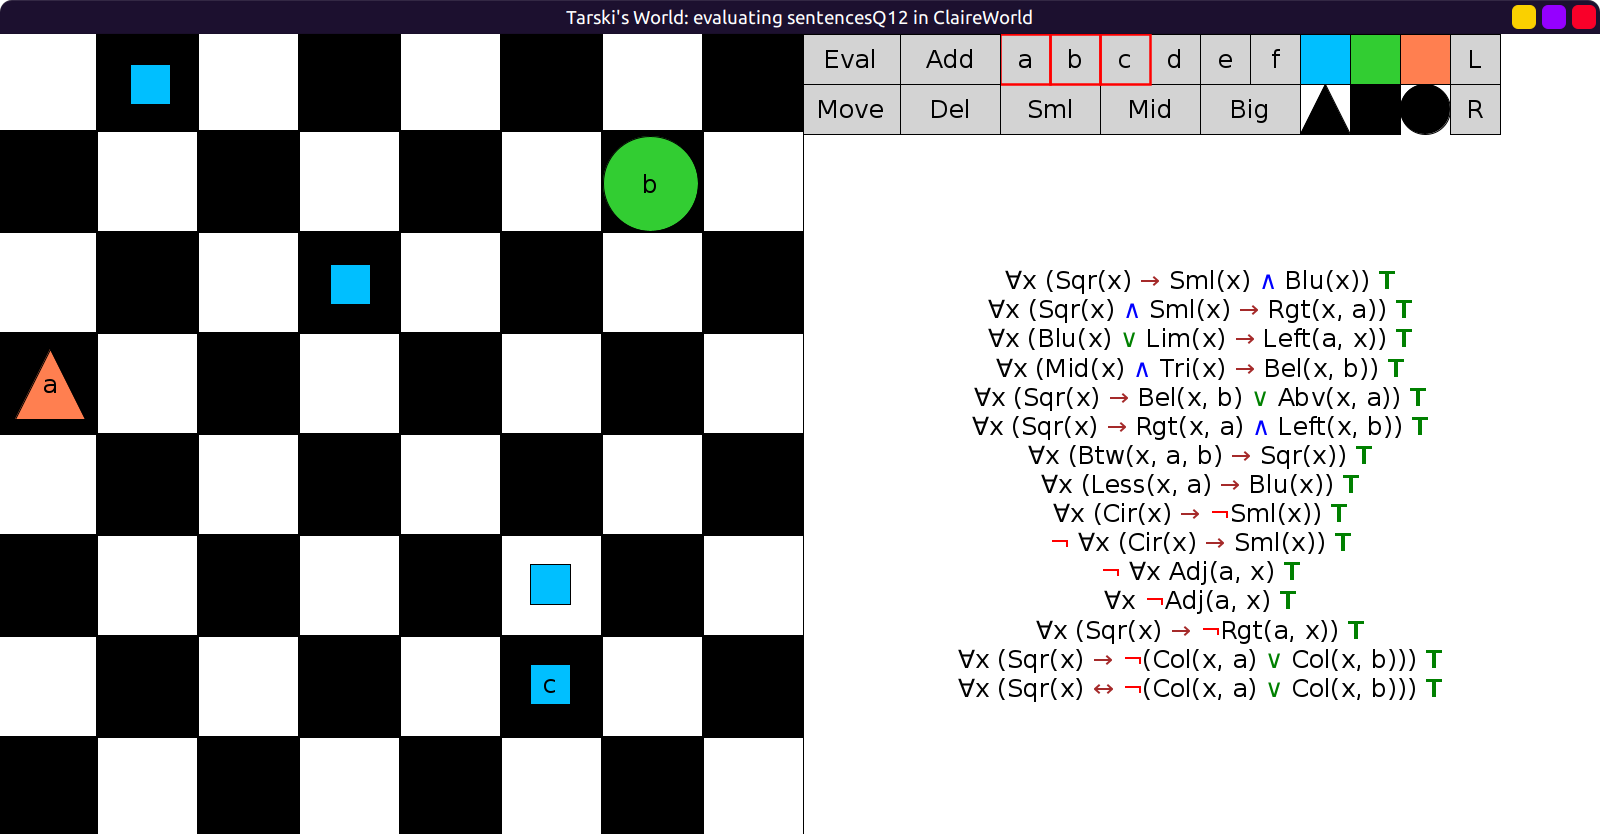
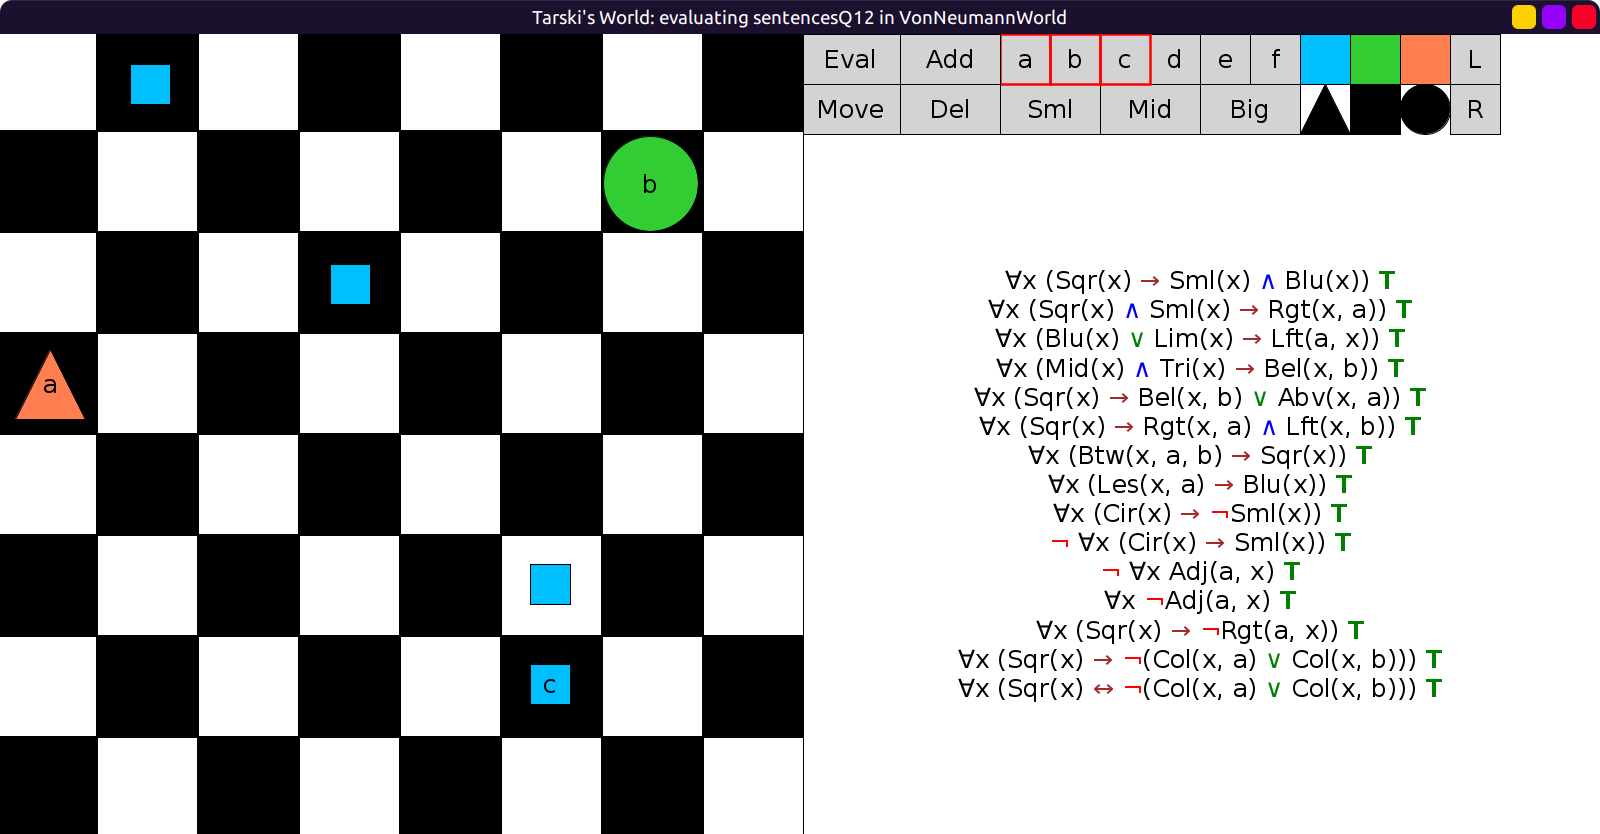
rework ex q12

diff --git a/examples/quantifier-logic/12/README.md b/examples/quantifier-logic/12/README.md
@@ -10,13 +10,13 @@ This time each translation will contain exactly one ∀ and no ∃.
 (You can use ¬ as you like.)
 
 1. All squares are small and blue.
-2. Each small square is to the right of a.
-3. a is to the left of every blue block and every lime block.
-4. Every medium triangle is below b.
-5. Each square is either below `b` or above a.
-6. Every square is to the right of a and to the left of b.
-7. Everything between a and `b` is a square.
-8. Everything smaller than a is blue.
+2. Each small square is to the right of `a`.
+3. `a` is to the left of every blue block and every lime block.
+4. Every medium triangle is below `b`.
+5. Each square is either below `b` or above `a`.
+6. Every square is to the right of `a` and to the left of b.
+7. Everything between `a` and `b` is a square.
+8. Everything smaller than `a` is blue.
 9. No circle is small.
     (Note: it would be more natural to express it as: "¬∃x ..."
     but here you need to express it with exactly one ∀.)
@@ -26,27 +26,28 @@ This time each translation will contain exactly one ∀ and no ∃.
     One starts with ∀, the other with ¬.
     The first has the same meaning as 9: "all circles are mid or big".
     So, use the second, the one that means: "not all circles are small".)
-11. a does not adjoin everything.
+11. `a` does not adjoin everything.
     (Note: This sentence is ambiguous.
     We want you to interpret it as a denial of the claim that a adjoins everything.)
-12. a does not adjoin anything.
+12. `a` does not adjoin anything.
     (Note: These last two sentences mean different things,
     though they can both be translated using ∀, ¬, and Adj.)
-13. a is not to the right of any square.
-14. If something is a square, then it is not in the same column as either a or b.
+13. `a` is not to the right of any square.
+14. If something is a square, then it is not in the same column as either `a` or `b`.
     (Warning: While this sentence contains the noun
     phrase "something," it is actually making a universal claim, and so
     should be translated with ∀. You might first try to paraphrase it
     using the English phrase "every square.")
-15. Something is a square if and only if it is not in the same column as either a or b.
+15. Something is a square if and only if
+    it is not in the same column as either `a` or `b`.
 
 Now let's check the translations in some worlds.
 
-- Open `ClaireWorld`.
+- Open `VonNeumannWorld`.
 - Check to see that all the English sentences are true in this world,
 - then make sure the same holds of your translations.
 - If you have made any mistakes, fix them.
-- Adjust `ClaireWorld` by moving `a` directly below `c`.
+- Adjust `VonNeumannWorld` by moving `a` directly below `c`.
 - Now, English sentences 2, 3, 6, and 12-15 are false, while the rest are true.
 - Make sure that the same holds of your translations.
 - If not, try to figure out what is wrong and fix it.
@@ -57,3 +58,11 @@ Now let's check the translations in some worlds.
 - Finally, open `VennWorld`.
 - English sentences 2, 4, 7, and 10-14 are true. What about your translations?
 - When you are satisfied that your translations are correct, save your sentence file.
+
+## Historical: who was von Neumann?
+
+Hungarian-American mathematician, computer scientist, engineer (1903 - 1957)
+
+Major contributions to many fields, worked on the Manhattan Project.
+
+<https://en.wikipedia.org/wiki/John_von_Neumann>

diff --git a/examples/quantifier-logic/31/README.md b/examples/quantifier-logic/31/README.md
@@ -24,7 +24,7 @@ Start a new sentence file and translate the following English sentences.
 - The English sentences 4, 5, 8, 9, and 10 are true,
 - but the rest are false.
 - Verify that the same holds of your translations.
-- Open Claire's World.
+- Open VonNeumann's World.
 - Here you will find that the English sentences 1, 3, 5, 7, 9, and 10 are true,
 - the rest false.
 - Again, check to see that your translations have the appropriate truth value.

diff --git a/examples/quantifier-logic/12/solution.md b/examples/quantifier-logic/12/solution.md
@@ -20,7 +20,7 @@ val sentencesQ12 = Seq(
 )
 ```
 
-Initially in `ClaireWorld`:
+Initially in `VonNeumannWorld`:
 
 ![q12a1](q12a1.png)
 
